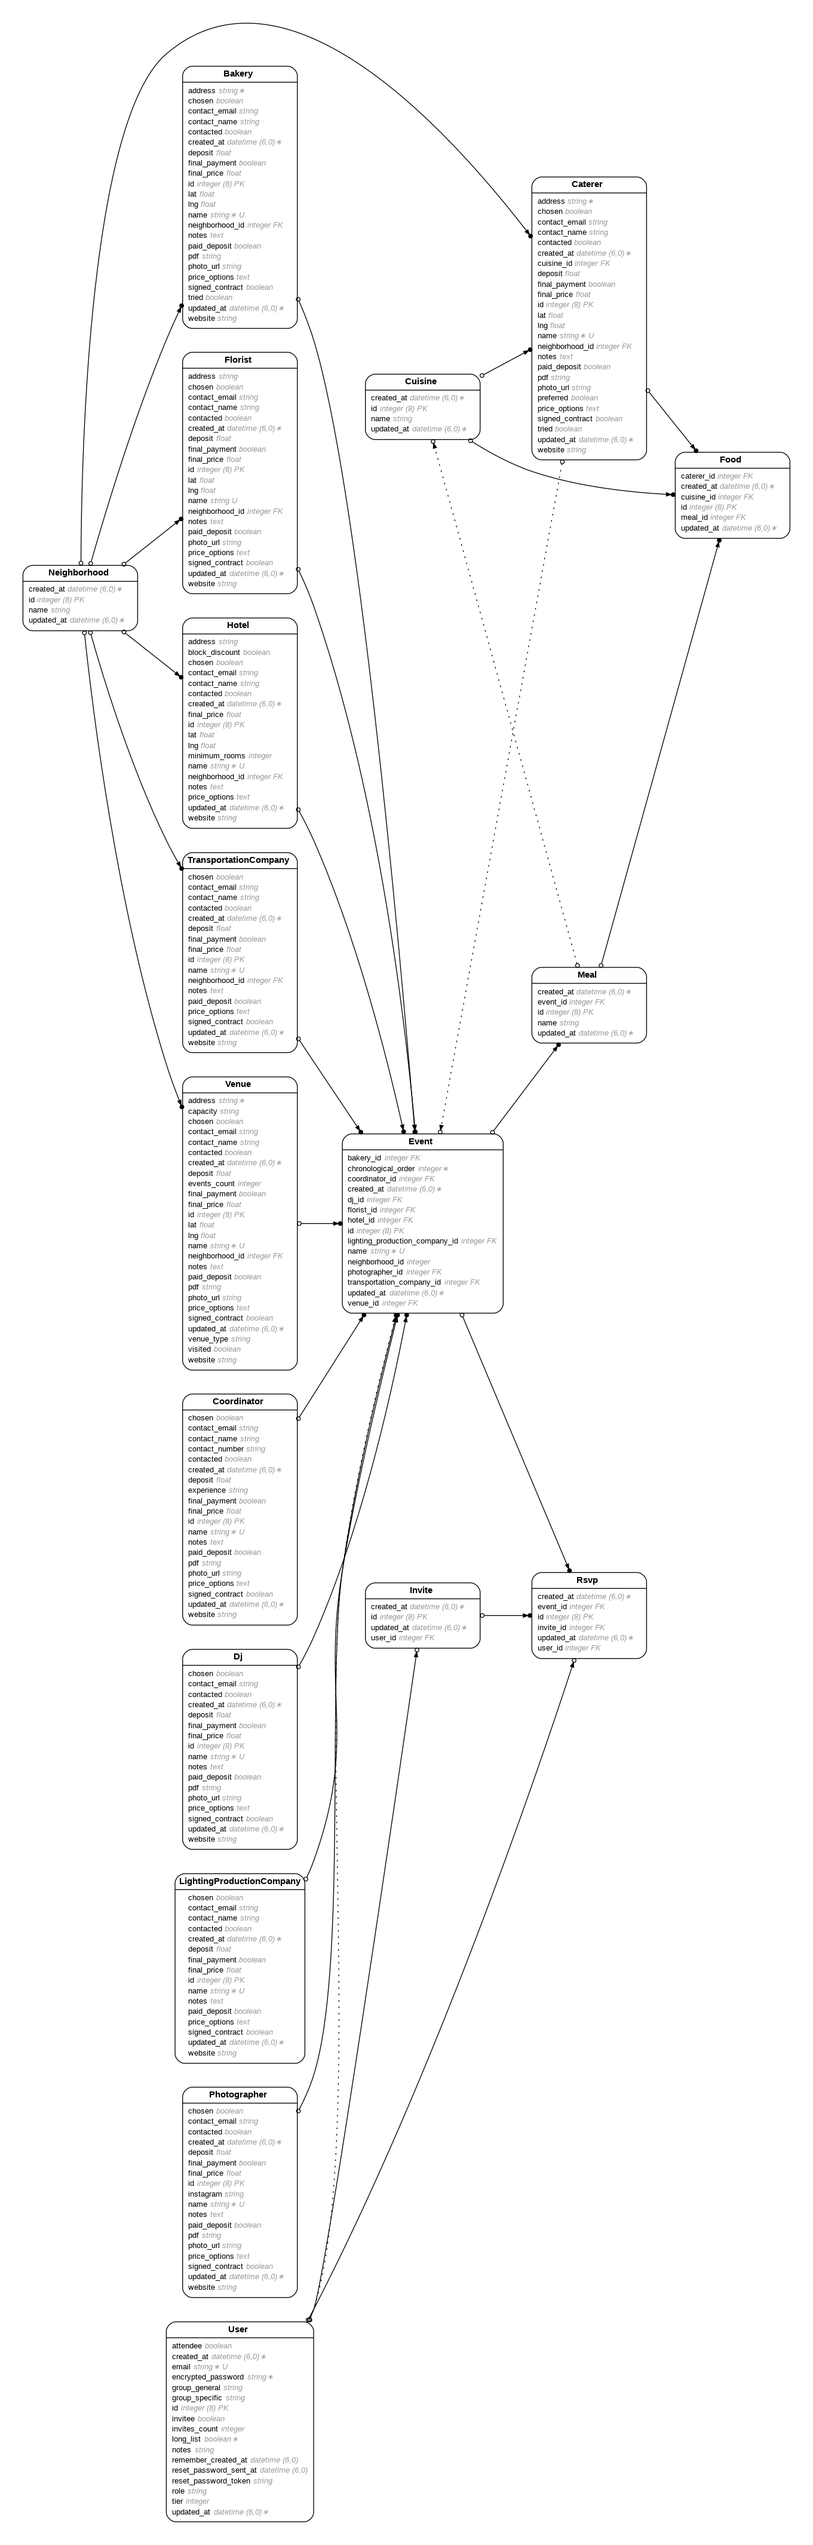
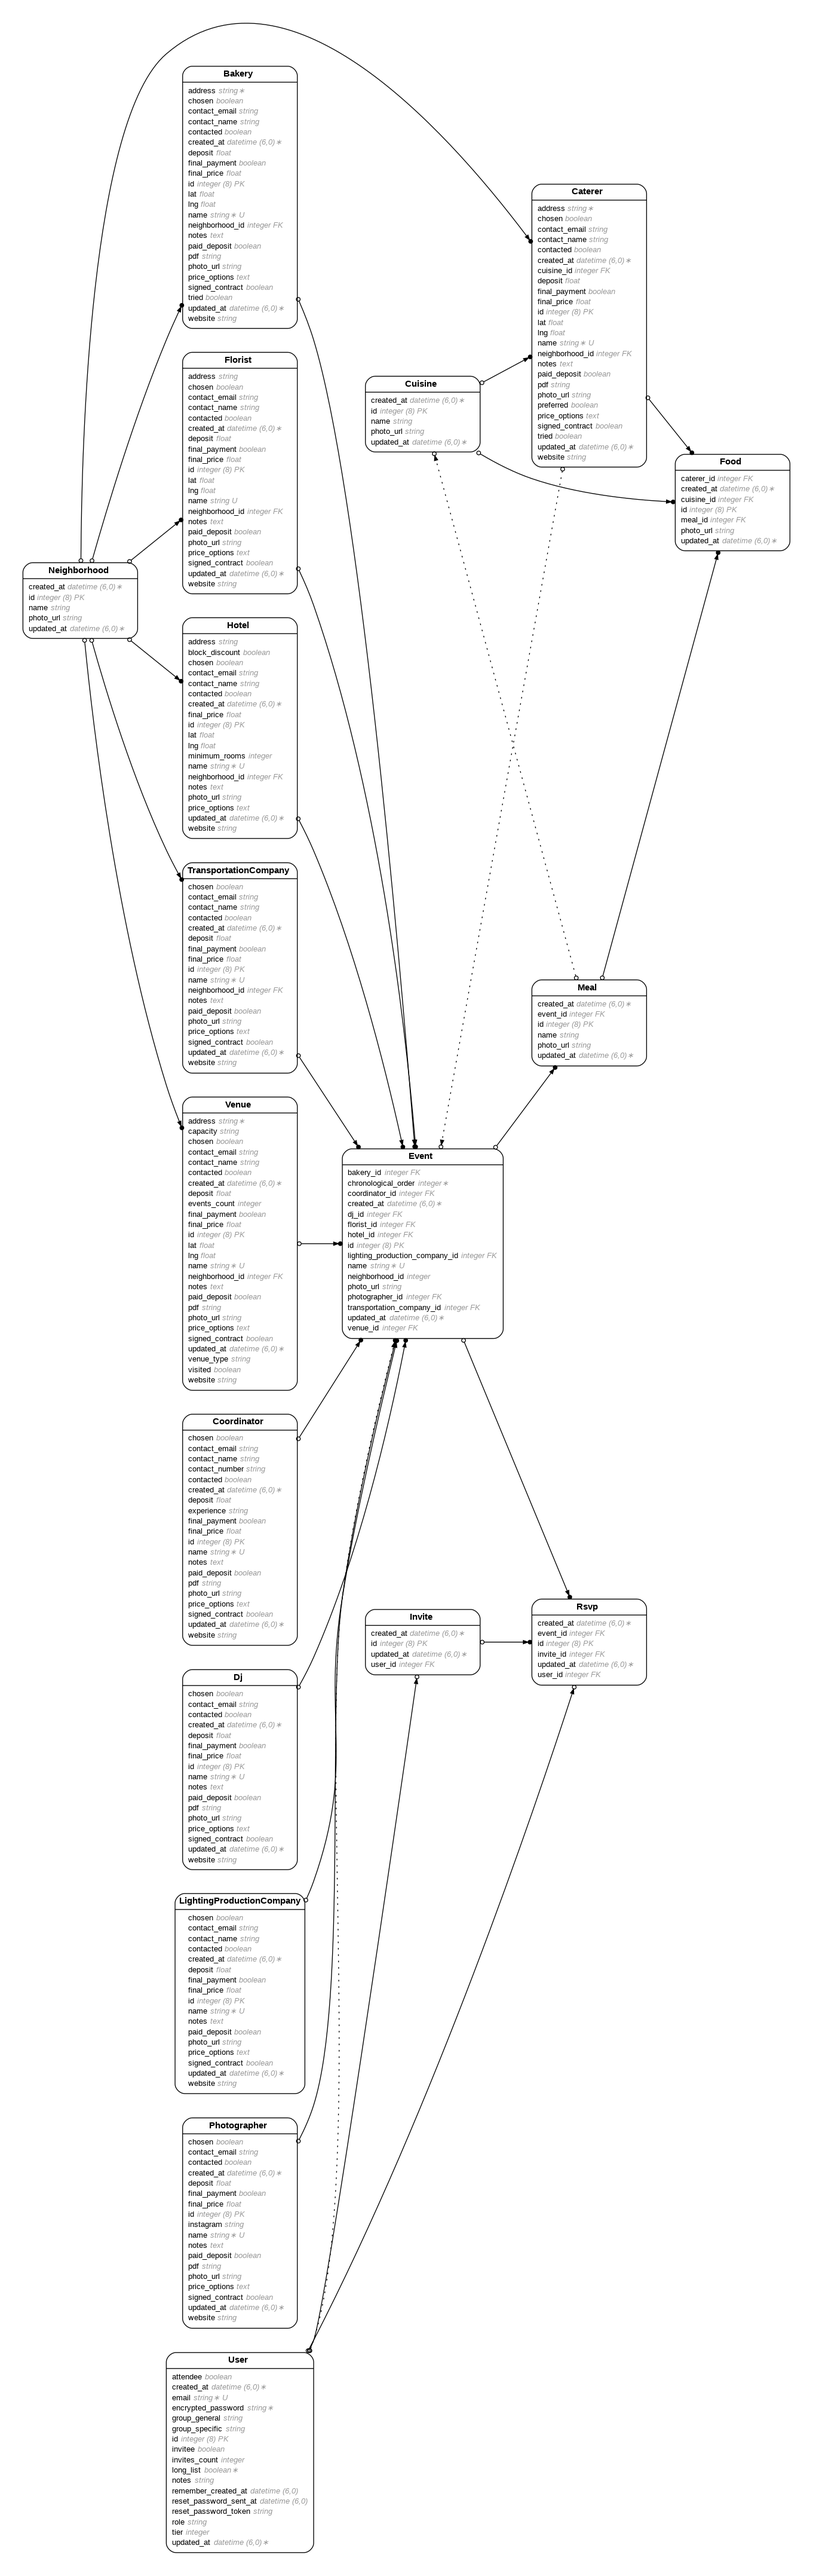
Adding photo_url to all databases and updating index pages

diff --git a/db/schema.rb b/db/schema.rb
@@ -10,7 +10,7 @@
 #
 # It's strongly recommended that you check this file into your version control system.
 
-ActiveRecord::Schema[7.1].define(version: 2024_12_11_100604) do
+ActiveRecord::Schema[7.1].define(version: 2024_12_11_182726) do
   # These are extensions that must be enabled in order to support this database
   enable_extension "plpgsql"
 
@@ -92,6 +92,7 @@ ActiveRecord::Schema[7.1].define(version: 2024_12_11_100604) do
     t.datetime "created_at", null: false
     t.datetime "updated_at", null: false
     t.string "name"
+    t.string "photo_url"
   end
 
   create_table "djs", force: :cascade do |t|
@@ -128,6 +129,7 @@ ActiveRecord::Schema[7.1].define(version: 2024_12_11_100604) do
     t.datetime "created_at", null: false
     t.datetime "updated_at", null: false
     t.integer "neighborhood_id"
+    t.string "photo_url"
   end
 
   create_table "florists", force: :cascade do |t|
@@ -159,6 +161,7 @@ ActiveRecord::Schema[7.1].define(version: 2024_12_11_100604) do
     t.integer "cuisine_id"
     t.datetime "created_at", null: false
     t.datetime "updated_at", null: false
+    t.string "photo_url"
   end
 
   create_table "hotels", force: :cascade do |t|
@@ -179,6 +182,7 @@ ActiveRecord::Schema[7.1].define(version: 2024_12_11_100604) do
     t.datetime "created_at", null: false
     t.datetime "updated_at", null: false
     t.string "contact_email"
+    t.string "photo_url"
   end
 
   create_table "invites", force: :cascade do |t|
@@ -203,6 +207,7 @@ ActiveRecord::Schema[7.1].define(version: 2024_12_11_100604) do
     t.boolean "signed_contract"
     t.boolean "paid_deposit"
     t.boolean "final_payment"
+    t.string "photo_url"
   end
 
   create_table "meals", force: :cascade do |t|
@@ -210,12 +215,14 @@ ActiveRecord::Schema[7.1].define(version: 2024_12_11_100604) do
     t.datetime "created_at", null: false
     t.datetime "updated_at", null: false
     t.string "name"
+    t.string "photo_url"
   end
 
   create_table "neighborhoods", force: :cascade do |t|
     t.datetime "created_at", null: false
     t.datetime "updated_at", null: false
     t.string "name"
+    t.string "photo_url"
   end
 
   create_table "photographers", force: :cascade do |t|
@@ -263,6 +270,7 @@ ActiveRecord::Schema[7.1].define(version: 2024_12_11_100604) do
     t.boolean "signed_contract"
     t.boolean "paid_deposit"
     t.boolean "final_payment"
+    t.string "photo_url"
   end
 
   create_table "users", force: :cascade do |t|

diff --git a/app/controllers/lighting_production_companies_controller.rb b/app/controllers/lighting_production_companies_controller.rb
@@ -21,6 +21,7 @@ class LightingProductionCompaniesController < ApplicationController
     the_lighting_production_company = LightingProductionCompany.new
     the_lighting_production_company.name = params.fetch("query_name")
     the_lighting_production_company.website = params.fetch("query_website")
+    the_lighting_production_company.photo_url = params.fetch("query_photo_url")
     the_lighting_production_company.contact_name = params.fetch("query_contact_name")
     the_lighting_production_company.contact_email = params.fetch("query_contact_email")
     the_lighting_production_company.contacted = params.fetch("query_contacted", false)
@@ -47,6 +48,7 @@ class LightingProductionCompaniesController < ApplicationController
 
     the_lighting_production_company.name = params.fetch("query_name")
     the_lighting_production_company.website = params.fetch("query_website")
+    the_lighting_production_company.photo_url = params.fetch("query_photo_url")
     the_lighting_production_company.contact_name = params.fetch("query_contact_name")
     the_lighting_production_company.contact_email = params.fetch("query_contact_email")
     the_lighting_production_company.contacted = params.fetch("query_contacted", false)

diff --git a/app/controllers/transportation_companies_controller.rb b/app/controllers/transportation_companies_controller.rb
@@ -27,6 +27,7 @@ class TransportationCompaniesController < ApplicationController
     the_transportation_company = TransportationCompany.new
     the_transportation_company.name = params.fetch("query_name")
     the_transportation_company.website = params.fetch("query_website")
+    the_transportation_company.photo_url = params.fetch("query_photo_url")
     the_transportation_company.contact_name = params.fetch("query_contact_name")
     the_transportation_company.contact_email = params.fetch("query_contact_email")
 
@@ -57,6 +58,7 @@ class TransportationCompaniesController < ApplicationController
 
     the_transportation_company.name = params.fetch("query_name")
     the_transportation_company.website = params.fetch("query_website")
+    the_transportation_company.photo_url = params.fetch("query_photo_url")
     the_transportation_company.contact_name = params.fetch("query_contact_name")
     the_transportation_company.contact_email = params.fetch("query_contact_email")
 

diff --git a/app/controllers/hotels_controller.rb b/app/controllers/hotels_controller.rb
@@ -49,6 +49,7 @@ class HotelsController < ApplicationController
     the_hotel.neighborhood_id = Neighborhood.where({ :name => neighborhood_name }).at(0).id
 
     the_hotel.website = params.fetch("query_website")
+    the_hotel.photo_url = params.fetch("query_photo_url")
     the_hotel.contact_name = params.fetch("query_contact_name")
     the_hotel.contact_email = params.fetch("query_contact_email")
     the_hotel.contacted = params.fetch("query_contacted", false)
@@ -94,6 +95,7 @@ class HotelsController < ApplicationController
     the_hotel.neighborhood_id = Neighborhood.where({ :name => neighborhood_name }).at(0).id
 
     the_hotel.website = params.fetch("query_website")
+    the_hotel.photo_url = params.fetch("query_photo_url")
     the_hotel.contact_name = params.fetch("query_contact_name")
     the_hotel.contact_email = params.fetch("query_contact_email")
     the_hotel.contacted = params.fetch("query_contacted", false)

diff --git a/app/controllers/events_controller.rb b/app/controllers/events_controller.rb
@@ -53,6 +53,7 @@ class EventsController < ApplicationController
   def create
     the_event = Event.new
     the_event.name = params.fetch("query_name")
+    the_event.photo_url = params.fetch("query_photo_url")
     the_event.chronological_order = params.fetch("query_chronological_order")
 
     the_event.bakery_id = Bakery.where({ :name => params.fetch("query_bakery_name") }).at(0).id
@@ -79,6 +80,7 @@ class EventsController < ApplicationController
     the_event = Event.where({ :id => the_id }).at(0)
 
     the_event.name = params.fetch("query_name")
+    the_event.photo_url = params.fetch("query_photo_url")
     the_event.chronological_order = params.fetch("query_chronological_order")
 
     the_event.bakery_id = Bakery.where({ :name => params.fetch("query_bakery_name") }).at(0).id

diff --git a/app/controllers/meals_controller.rb b/app/controllers/meals_controller.rb
@@ -39,6 +39,8 @@ class MealsController < ApplicationController
     event_name = params.fetch("query_event_name")
     the_meal.event_id = Event.where({ :name => event_name }).at(0).id
 
+    the_meal.photo_url = params.fetch("query_photo_url")
+
     if the_meal.valid?
       the_meal.save
       redirect_to("/meals", { :notice => "Meal created successfully." })
@@ -58,6 +60,8 @@ class MealsController < ApplicationController
     event_name = params.fetch("query_event_name")
     the_meal.event_id = Event.where({ :name => event_name }).at(0).id
 
+    the_meal.photo_url = params.fetch("query_photo_url")
+    
     if the_meal.valid?
       the_meal.save
       redirect_to("/meals/#{the_meal.id}", { :notice => "Meal updated successfully."} )

diff --git a/app/controllers/foods_controller.rb b/app/controllers/foods_controller.rb
@@ -22,6 +22,7 @@ class FoodsController < ApplicationController
     the_food.meal_id = params.fetch("query_meal_id")
     the_food.caterer_id = params.fetch("query_caterer_id")
     the_food.cuisine_id = params.fetch("query_cuisine_id")
+    the_food.photo_url = params.fetch("query_photo_url")
 
     if the_food.valid?
       the_food.save
@@ -38,6 +39,7 @@ class FoodsController < ApplicationController
     the_food.meal_id = params.fetch("query_meal_id")
     the_food.caterer_id = params.fetch("query_caterer_id")
     the_food.cuisine_id = params.fetch("query_cuisine_id")
+    the_food.photo_url = params.fetch("query_photo_url")
 
     if the_food.valid?
       the_food.save

diff --git a/app/controllers/neighborhoods_controller.rb b/app/controllers/neighborhoods_controller.rb
@@ -20,6 +20,7 @@ class NeighborhoodsController < ApplicationController
   def create
     the_neighborhood = Neighborhood.new
     the_neighborhood.name = params.fetch("query_name")
+    the_neighborhood.photo_url = params.fetch("query_photo_url")
 
     if the_neighborhood.valid?
       the_neighborhood.save
@@ -32,6 +33,7 @@ class NeighborhoodsController < ApplicationController
   def update
     the_id = params.fetch("path_id")
     the_neighborhood = Neighborhood.where({ :id => the_id }).at(0)
+    the_neighborhood.photo_url = params.fetch("query_photo_url")
 
 
     if the_neighborhood.valid?

diff --git a/app/controllers/cuisines_controller.rb b/app/controllers/cuisines_controller.rb
@@ -20,6 +20,7 @@ class CuisinesController < ApplicationController
   def create
     the_cuisine = Cuisine.new
     the_cuisine.name = params.fetch("query_cuisine_name")
+    the_cuisine.photo_url = params.fetch("query_photo_url")
 
     if the_cuisine.valid?
       the_cuisine.save
@@ -34,6 +35,7 @@ class CuisinesController < ApplicationController
     the_cuisine = Cuisine.where({ :id => the_id }).at(0)
 
     the_cuisine.name = params.fetch("query_cuisine_name")
+    the_cuisine.photo_url = params.fetch("query_photo_url")
 
     if the_cuisine.valid?
       the_cuisine.save

diff --git a/app/models/event.rb b/app/models/event.rb
@@ -5,6 +5,7 @@
 #  id                             :bigint           not null, primary key
 #  chronological_order            :integer
 #  name                           :string
+#  photo_url                      :string
 #  created_at                     :datetime         not null
 #  updated_at                     :datetime         not null
 #  bakery_id                      :integer

diff --git a/db/migrate/20241211182726_add_photo_url_to_multiple_tables.rb b/db/migrate/20241211182726_add_photo_url_to_multiple_tables.rb
@@ -1,0 +1,7 @@
+class AddPhotoUrlToMultipleTables < ActiveRecord::Migration[7.1]
+  def change
+      %i[cuisines events foods hotels lighting_production_companies meals neighborhoods transportation_companies].each do |table|
+        add_column table, :photo_url, :string
+      end
+  end
+end

diff --git a/app/models/hotel.rb b/app/models/hotel.rb
@@ -15,6 +15,7 @@
 #  minimum_rooms   :integer
 #  name            :string
 #  notes           :text
+#  photo_url       :string
 #  price_options   :text
 #  website         :string
 #  created_at      :datetime         not null
